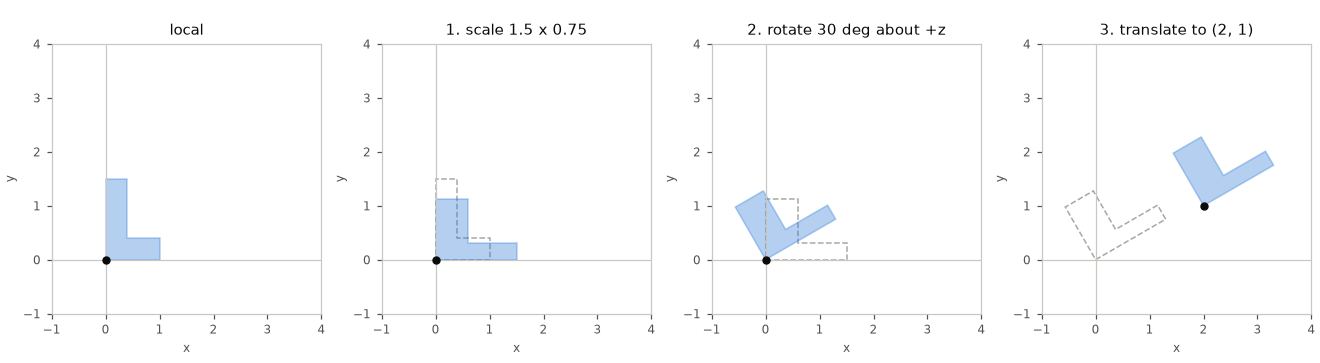
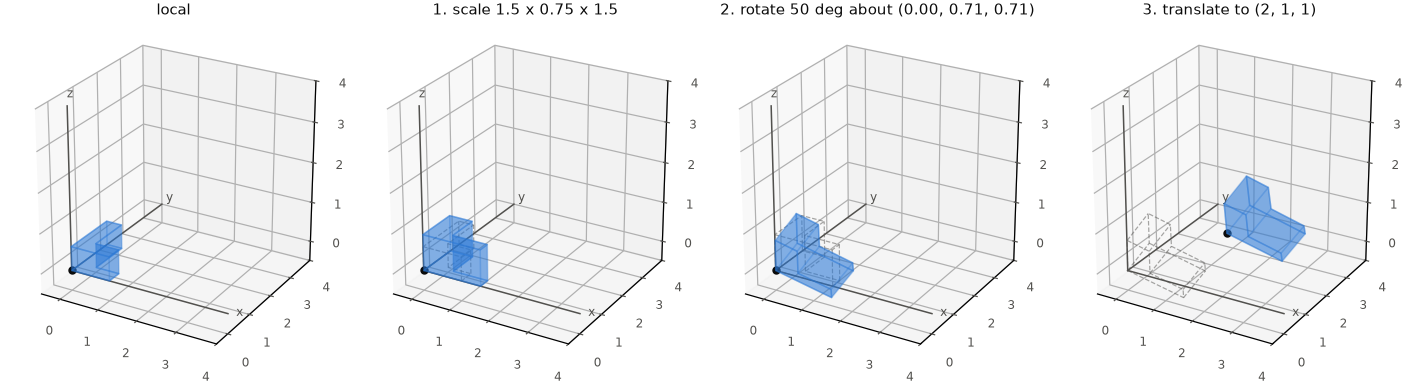
docs/math: TRS figure in 3D (scale, rotate, translate of an L-shaped block) (autana-lp8y)

diff --git a/launcher/tools/math/math_figures.py b/launcher/tools/math/math_figures.py
@@ -26,7 +26,8 @@ import matplotlib
 
 matplotlib.use("Agg")
 import matplotlib.pyplot as plt
-from matplotlib.patches import Polygon, Rectangle
+from matplotlib.patches import Rectangle
+from mpl_toolkits.mplot3d.art3d import Poly3DCollection
 
 PROBE = ROOT / "launcher/tools/math/math_figures_probe.c"
 PROBE_SOURCES = (PROBE, ROOT / "launcher/main/render/render_view.c")
@@ -34,8 +35,11 @@ DISPLAY = ROOT / "launcher/components/esp32_s3_touch_amoled_1_8/include/bsp/disp
 
 INK, MUTED, FAINT = "#0b0b0b", "#52514e", "#c9c7c2"
 SHAPE_FILL, POINT, PIXEL_FILL = "#2a78d6", "#eb6834", "#1baf7a"
+TRS_MARGIN = 0.5  # units of room below the origin in the 3D panels
+TRS_PANEL_SIZE = 3.2  # the 3D panels need more room
 PANEL_SIZE = 3.0  # inches per panel, wide and high
 PANEL_TITLE_ROOM = 0.3  # inches above each row for the panel titles
+VIEW_ELEVATION, VIEW_AZIMUTH = 25, -60  # degrees, the same for every panel
 DPI = 110
 TITLE_SIZE = 10
 LABEL_SIZE = 8
@@ -66,32 +70,56 @@ def square_axes(axis, title):
 
 
 def trs_figure(trs, output):
-    stages = (("local", "local"), ("scaled", "1. scale {sx:g} x {sy:g}"),
-              ("rotated", "2. rotate {angle:g} deg about +z"), ("placed", "3. translate to ({tx:g}, {ty:g})"))
-    values = dict(sx=trs["scale"][0], sy=trs["scale"][1], angle=trs["angle_degrees"],
-                  tx=trs["position"][0], ty=trs["position"][1])
+    stages = (("local", "local"), ("scaled", "1. scale {sx:g} x {sy:g} x {sz:g}"),
+              ("rotated", "2. rotate {angle:g} deg about ({ax:.2f}, {ay:.2f}, {az:.2f})"),
+              ("placed", "3. translate to ({tx:g}, {ty:g}, {tz:g})"))
+    values = dict(zip(("sx", "sy", "sz"), trs["scale"]), angle=trs["angle_degrees"],
+                  **dict(zip(("ax", "ay", "az"), trs["axis"])), **dict(zip(("tx", "ty", "tz"), trs["position"])))
     corners = [p for name, _ in stages for p in trs[name]]
-    low = math.floor(min(min(x for x, _ in corners), min(y for _, y in corners), 0))
-    high = math.ceil(max(max(x for x, _ in corners), max(y for _, y in corners)))
-    size = (PANEL_SIZE * len(stages), PANEL_SIZE + PANEL_TITLE_ROOM)
-    figure, axes = plt.subplots(1, len(stages), figsize=size, layout="constrained")
+    low = -TRS_MARGIN
+    high = math.ceil(max(max(c) for c in corners))
+    count = trs["outline_corners"]
+    size = (TRS_PANEL_SIZE * len(stages), TRS_PANEL_SIZE + PANEL_TITLE_ROOM)
+    figure = plt.figure(figsize=size, layout="constrained")
     previous = None
-    for axis, (name, title) in zip(axes, stages):
-        square_axes(axis, title.format(**values))
+    for index, (name, title) in enumerate(stages):
+        axis = figure.add_subplot(1, len(stages), index + 1, projection="3d")
+        axis.set_title(title.format(**values), fontsize=TITLE_SIZE, color=INK)
         axis.set_xlim(low, high)
         axis.set_ylim(low, high)
-        axis.axhline(0, color=FAINT, linewidth=0.8)
-        axis.axvline(0, color=FAINT, linewidth=0.8)
+        axis.set_zlim(low, high)
+        axis.set_box_aspect((1, 1, 1))
+        axis.view_init(elev=VIEW_ELEVATION, azim=VIEW_AZIMUTH)
+        axis.tick_params(labelsize=LABEL_SIZE, colors=MUTED)
+        axis.set_xticks(range(0, high + 1))
+        axis.set_yticks(range(0, high + 1))
+        axis.set_zticks(range(0, high + 1))
+        for label, direction in zip("xyz", ((1, 0, 0), (0, 1, 0), (0, 0, 1))):
+            end = [high * d for d in direction]
+            axis.plot([0, end[0]], [0, end[1]], [0, end[2]], color=MUTED, linewidth=1)
+            axis.text(*[(high + 0.2) * d for d in direction], label, fontsize=LABEL_SIZE, color=MUTED)
         if previous is not None:
-            axis.add_patch(Polygon(previous, closed=True, fill=False, edgecolor=MUTED, linestyle="--",
-                                   alpha=GHOST_ALPHA))
-        axis.add_patch(Polygon(trs[name], closed=True, facecolor=SHAPE_FILL, alpha=SHAPE_ALPHA, edgecolor=SHAPE_FILL))
+            for ring in prism_edges(previous, count):
+                axis.plot(*zip(*ring), color=MUTED, linestyle="--", linewidth=0.8, alpha=GHOST_ALPHA)
+        axis.add_collection3d(Poly3DCollection(prism_faces(trs[name], count), facecolor=SHAPE_FILL,
+                                               alpha=SHAPE_ALPHA, edgecolor=SHAPE_FILL))
         axis.scatter(*trs[name][0], s=POINT_SIZE / 2, color=INK, zorder=3)
-        axis.set_xlabel("x", fontsize=LABEL_SIZE, color=MUTED)
-        axis.set_ylabel("y", fontsize=LABEL_SIZE, color=MUTED)
         previous = trs[name]
     figure.savefig(output, dpi=DPI, metadata={"Software": None})
     plt.close(figure)
+
+
+def prism_faces(points, count):
+    """The block's faces: both L outlines and one quad per side."""
+    back, front = points[:count], points[count:]
+    sides = [[back[i], back[(i + 1) % count], front[(i + 1) % count], front[i]] for i in range(count)]
+    return [back, front, *sides]
+
+
+def prism_edges(points, count):
+    """The block's edges as polylines: both outlines and the joins between them."""
+    back, front = points[:count], points[count:]
+    return [back + back[:1], front + front[:1], *([back[i], front[i]] for i in range(count))]
 
 
 def pixel_figure(px, output):

diff --git a/launcher/tools/math/math_figures_probe.c b/launcher/tools/math/math_figures_probe.c
@@ -19,17 +19,19 @@
 #include "render/r3d_project.h"
 #include "render/render_view.h"
 
-/* An L, so a turn or a mirror shows: local units, corners in drawing order. */
-static const vec3f_t SHAPE[] = {
+/* An L-shaped block, so a turn or a mirror shows: local units, the L's corners in drawing
+ * order on the back face (z = 0), then the same corners on the front face (z = SHAPE_DEPTH). */
+static const vec3f_t OUTLINE[] = {
     {0.0F, 0.0F, 0.0F}, {1.0F, 0.0F, 0.0F}, {1.0F, 0.4F, 0.0F},
     {0.4F, 0.4F, 0.0F}, {0.4F, 1.5F, 0.0F}, {0.0F, 1.5F, 0.0F},
 };
-#define SHAPE_CORNERS ((int)(sizeof SHAPE / sizeof SHAPE[0]))
+#define OUTLINE_CORNERS ((int)(sizeof OUTLINE / sizeof OUTLINE[0]))
+static const float SHAPE_DEPTH = 0.6F;
 
-static const vec3f_t TRS_SCALE = {1.5F, 0.75F, 1.0F};
-static const vec3f_t TRS_AXIS = {0.0F, 0.0F, 1.0F};
-static const float TRS_ANGLE_DEGREES = 30.0F;
-static const vec3f_t TRS_POSITION = {2.0F, 1.0F, 0.0F};
+static const vec3f_t TRS_SCALE = {1.5F, 0.75F, 1.5F};
+static const vec3f_t TRS_AXIS = {0.0F, 1.0F, 1.0F}; /* normalised below */
+static const float TRS_ANGLE_DEGREES = 50.0F;
+static const vec3f_t TRS_POSITION = {2.0F, 1.0F, 1.0F};
 
 /* The example camera sits at the origin looking down +z, as TRANSFORMF_IDENTITY places it. */
 static const float VIEW_HALF_FOV_SHORT_TAN = 0.5F;
@@ -39,9 +41,11 @@ static const vec3f_t VIEW_POINT = {0.62F, 0.41F, 2.0F};
 static void
 print_shape(const char* name, const mat4f_t* m, const char* tail) {
     printf("  \"%s\": [", name);
-    for (int i = 0; i < SHAPE_CORNERS; i++) {
-        const vec3f_t p = mat4f_apply(m, SHAPE[i]);
-        printf("%s[%.6g, %.6g]", i ? ", " : "", (double)p.x, (double)p.y);
+    for (int i = 0; i < 2 * OUTLINE_CORNERS; i++) {
+        vec3f_t corner = OUTLINE[i % OUTLINE_CORNERS];
+        corner.z = i < OUTLINE_CORNERS ? 0.0F : SHAPE_DEPTH;
+        const vec3f_t p = mat4f_apply(m, corner);
+        printf("%s[%.6g, %.6g, %.6g]", i ? ", " : "", (double)p.x, (double)p.y, (double)p.z);
     }
     printf("]%s\n", tail);
 }
@@ -57,7 +61,8 @@ main(int argc, char** argv) {
     const vec3f_t origin = {0.0F, 0.0F, 0.0F};
     const vec3f_t unit = {1.0F, 1.0F, 1.0F};
     const quatf_t none = quatf_identity();
-    const quatf_t turn = quatf_from_axis_angle(TRS_AXIS, TRS_ANGLE_DEGREES * MATH_RADIANS_PER_DEGREE);
+    const vec3f_t axis = vec3f_normalize(TRS_AXIS);
+    const quatf_t turn = quatf_from_axis_angle(axis, TRS_ANGLE_DEGREES * MATH_RADIANS_PER_DEGREE);
     const mat4f_t local = mat4f_from_trs(origin, none, unit);
     const mat4f_t scaled = mat4f_from_trs(origin, none, TRS_SCALE);
     const mat4f_t rotated = mat4f_from_trs(origin, turn, TRS_SCALE);
@@ -73,8 +78,11 @@ main(int argc, char** argv) {
     r3d_project_screen(VIEW_POINT, &lens, &pixel_x, &pixel_y);
 
     printf("{\n \"trs\": {\n");
-    printf("  \"scale\": [%.6g, %.6g], \"angle_degrees\": %.6g, \"position\": [%.6g, %.6g],\n", (double)TRS_SCALE.x,
-           (double)TRS_SCALE.y, (double)TRS_ANGLE_DEGREES, (double)TRS_POSITION.x, (double)TRS_POSITION.y);
+    printf("  \"scale\": [%.6g, %.6g, %.6g], \"angle_degrees\": %.6g, \"axis\": [%.6g, %.6g, %.6g],\n",
+           (double)TRS_SCALE.x, (double)TRS_SCALE.y, (double)TRS_SCALE.z, (double)TRS_ANGLE_DEGREES, (double)axis.x,
+           (double)axis.y, (double)axis.z);
+    printf("  \"position\": [%.6g, %.6g, %.6g], \"outline_corners\": %d,\n", (double)TRS_POSITION.x,
+           (double)TRS_POSITION.y, (double)TRS_POSITION.z, OUTLINE_CORNERS);
     print_shape("local", &local, ",");
     print_shape("scaled", &scaled, ",");
     print_shape("rotated", &rotated, ",");

diff --git a/docs/math/README.md b/docs/math/README.md
@@ -63,9 +63,9 @@ M = T\,R\,S, \qquad p_{\text{world}} = M\,p_{\text{local}}, \qquad
 V = R^{\mathsf T}\,T(-\text{position})
 ```
 
-![One L-shaped outline in four panels: as authored, scaled 1.5 by 0.75, then turned 30 degrees about +z, then moved to (2, 1)](../images/math/trs-order.png)
+![One L-shaped block in four 3D panels: as authored, scaled 1.5 by 0.75 by 1.5, then turned 50 degrees about (0, 1, 1), then moved to (2, 1, 1)](../images/math/trs-order.png)
 
-The panels apply `mat4f_from_trs` with one more part each; the dashed outline is the panel before.
+The panels apply `mat4f_from_trs` with one more part each; the dashed block is the panel before.
 
 ### Projection: projectf.h, projectx.h
 
